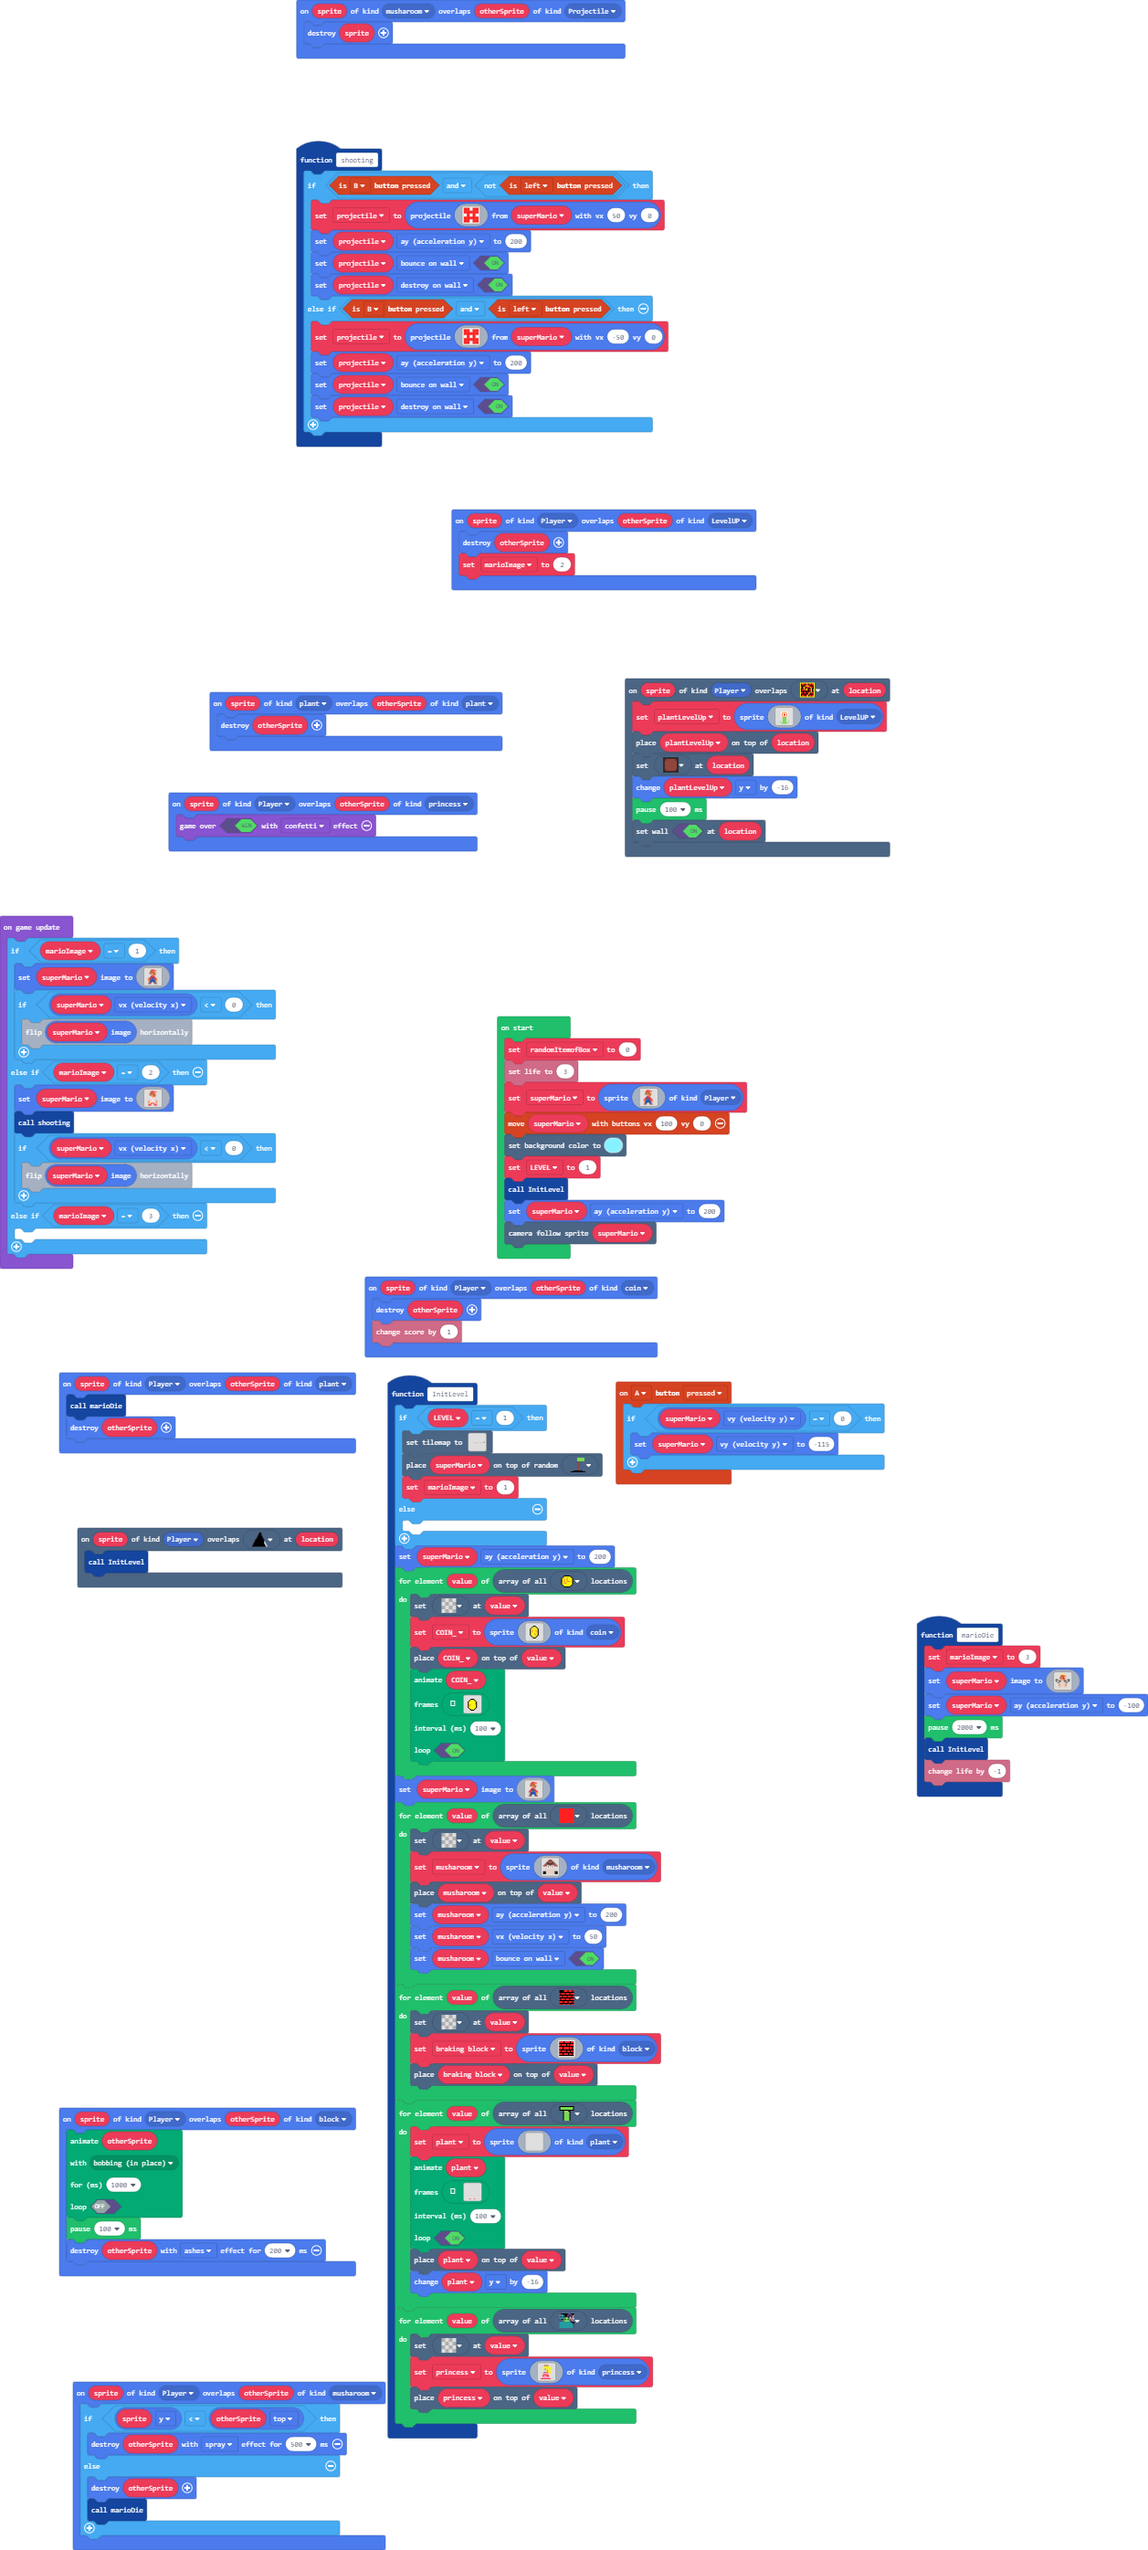
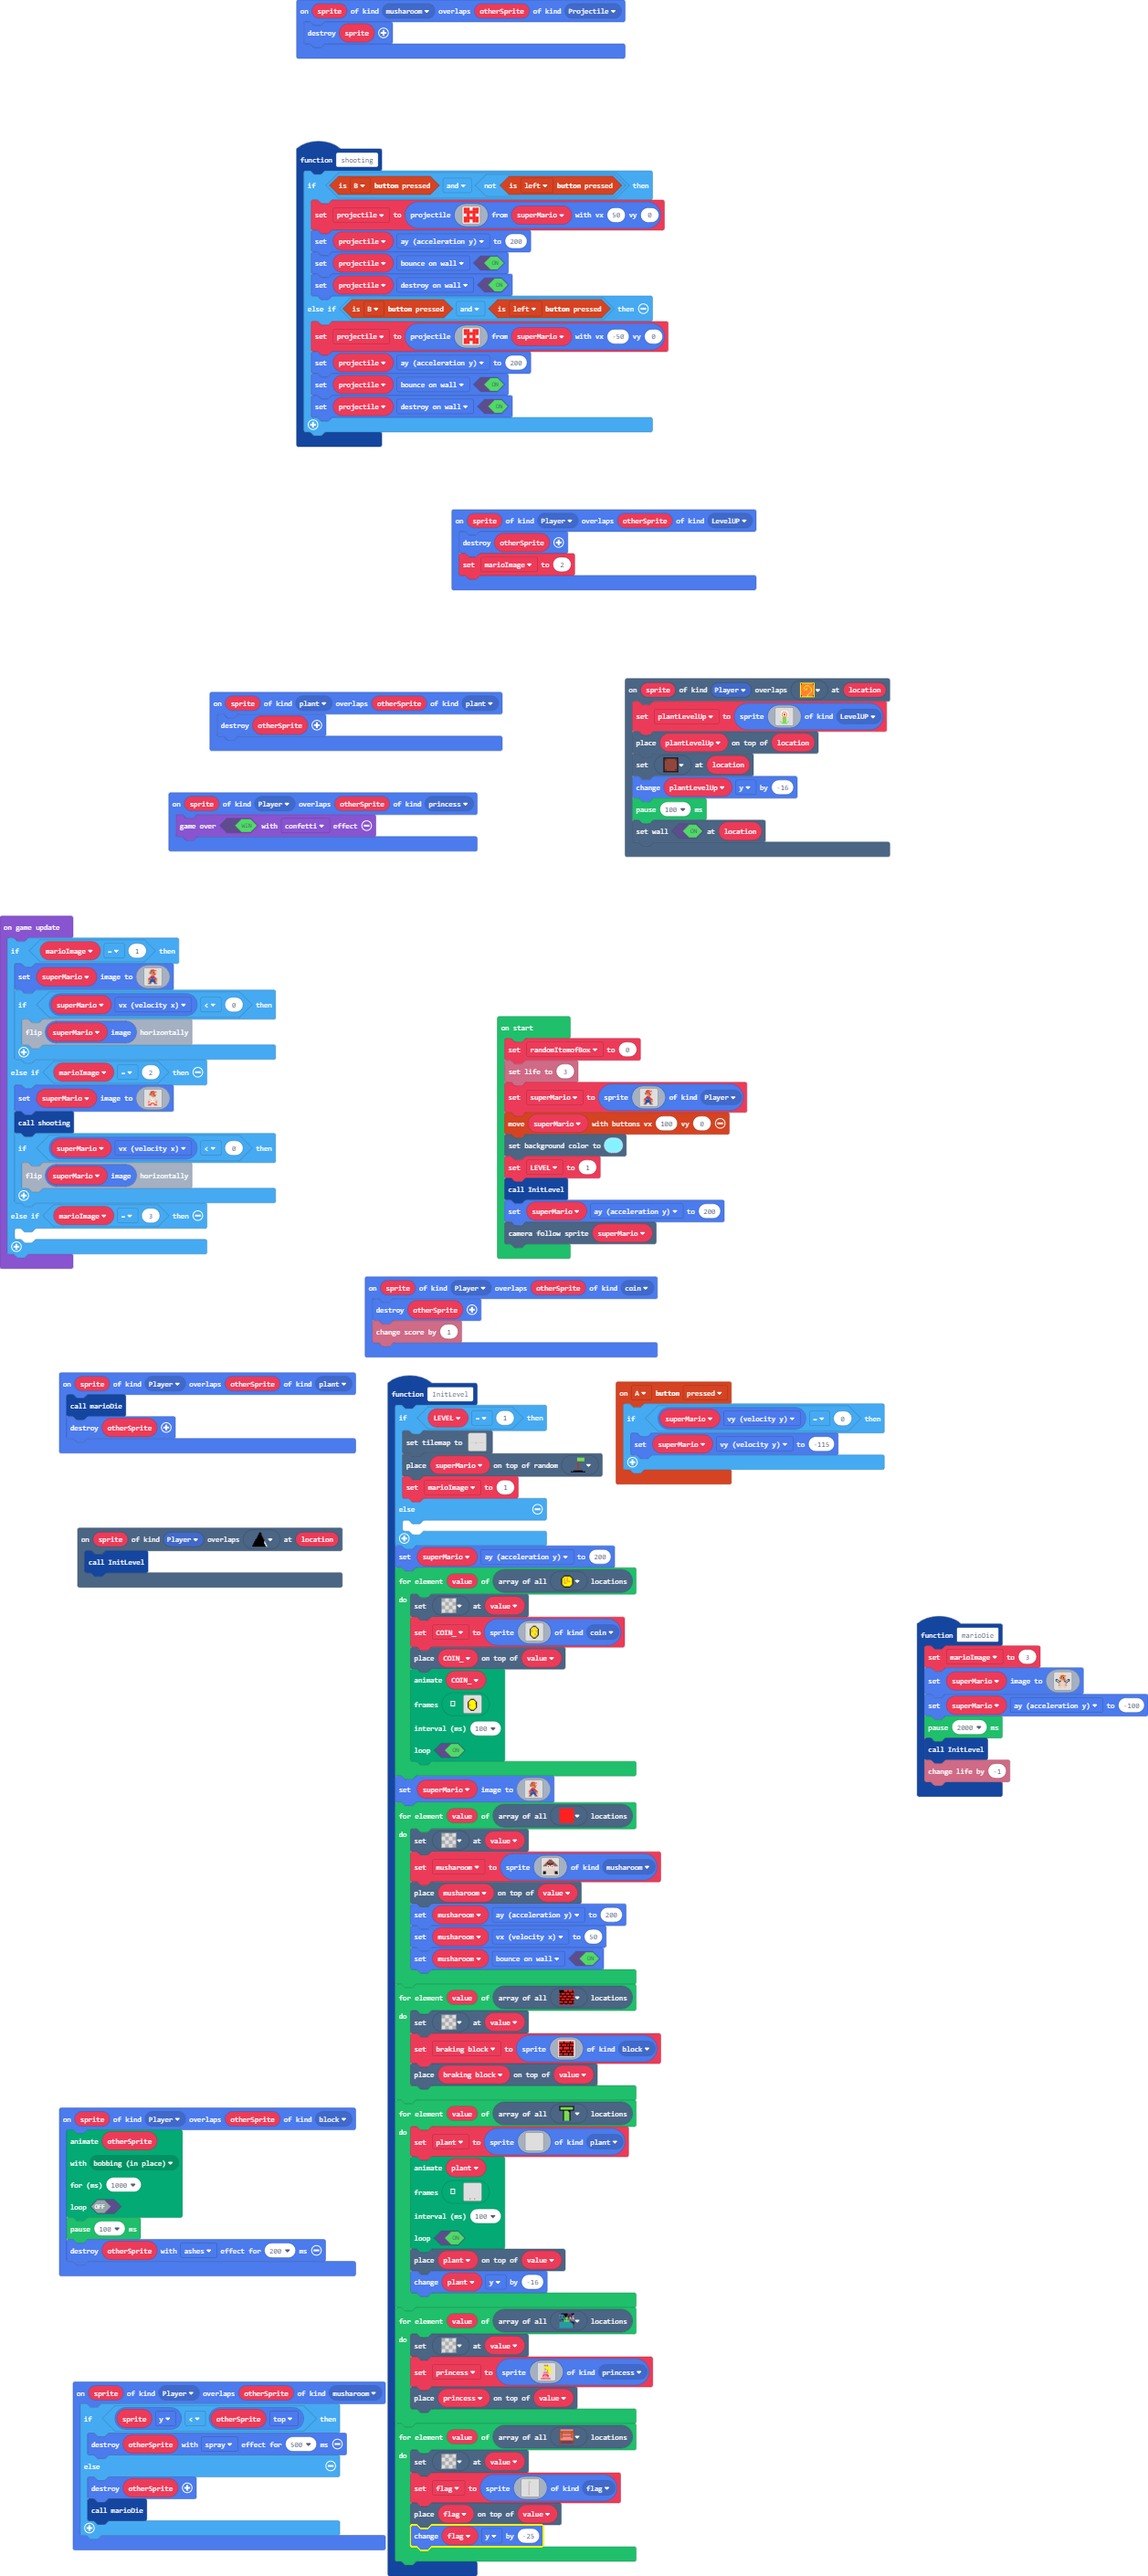
started making next level flag.

diff --git a/main.ts b/main.ts
@@ -7,6 +7,7 @@ namespace SpriteKind {
     export const star = SpriteKind.create()
     export const princess = SpriteKind.create()
     export const LevelUP = SpriteKind.create()
+    export const flag = SpriteKind.create()
 }
 namespace myTiles {
     //% blockIdentity=images._tile
@@ -298,7 +299,7 @@ scene.onOverlapTile(SpriteKind.Player, myTiles.tile7, function (sprite, location
 function InitLevel () {
     if (LEVEL == 1) {
         tiles.setTilemap(tiles.createTilemap(
[2 lines of base64/hex data omitted]
             img`
 . . . . . . . . . . . . . . . . . . . . . . . . . . . . . . . . . . . . . . . . . . . . . . . . . . . . . . . . . . . . . . . . . . . . . . . . . . . . . . . . . . . . . . . . . . . . . . . . . . . . 
 . . . . . . . . . . . . . . . . . . . . . . . . . . . . . . . . . . . . . . . . . . . . . . . . . . . . . . . . . . . . . . . . . . . . . . . . . . . . . . . . . . . . . . . . . . . . . . . . . . . . 
@@ -308,15 +309,15 @@ function InitLevel () {
 . . . . . . . . . . . . . . . . . . . . . . . . . . . . . . . . . . . . . . . . . . . . . . . . . . . . . . . . . . . . . . . . . . . . . . . . . . . . . . . . . . . . . . . . . . . . . . . . . . . . 
 . . . . . . . . . . . . . . . . . . . . . . . . . . . . . . . . . . . . . . . . . . . . . . . . . . . . . . . . . . . . . . . . . . . . . . . . . . . . . . . . . . . . . . . . . . . . . . . . . . . . 
 . . . . . . . . . . . . . . . . . . . . . . . . . . . . . . . . . . . . . . . . . . . . . . . . . . . . . . . . . . . . . . . . . . . . . . . . . . . . . . . . . . . . . . . . . . . . . . . . . . . . 
-. . . . . . . . . . . . . . . . . . . . . . . . . . . . . . . . . . . . . . . . . . . . . . . . . . . . . . . . . . . . . . . . . . . . . . . . . . . . . . . . . . . . . . . . . . . . . . . . . 2 2 2 
-. . . . . . . . . . . . . . . . . . . . . . . . . . . . . . . . . . . . . . . . . . . . . . . . . . . . . . . . . . . . . . . . . . . . . . . . . . . . . . . . . . . . . . . . . . . . . . . . 2 2 2 2 
-. . . . . . . . . . . . . . . . . . . . . . . . . . . . . . . . . . . . . . . . . . . . . . . . . . . . . . . . . . . . . . . . . . . . . . . . . . . . . . . . . . . . . . . . . . . . . . . 2 2 2 2 2 
-. . . . . . . . . . . . . . . . . . . . . . . . 2 . . . . . . . . . . . . . . . . . . . . . . . . . . . . . . . . . . . . . . . . . . . . . . . . . . . . . . . . . . . . . . . . . . . . . 2 2 2 2 2 2 
-. . . . . . . . . . . . . . . . . . . . . . . . 2 . . . . . . . . . . . . . . . . . . . . . . . . . . . . . . . . . . . . . . . . . . . . . . . . . . . . . . . . . . . . . . . . . . . . 2 2 2 2 2 2 2 
-. . . . . . . . . . . . . . . . . . . . . . . . 2 . . . . . . . . . . . . . . 2 . . 2 . . . . . . . . . . . . . . . . . . . . . . . . . . . . . . . . . . . . . . . . . . . . . . . . . 2 2 2 2 2 2 2 2 
-. . . . . . . . . . . . . . . . . . . . . . . . . . . . . . . . . . . . . . 2 2 . . 2 2 . . . . . . . . . . . . . . 2 2 2 . 2 2 . . . . . . . . . . . . . . . . . . . . . . . . . . . 2 2 2 2 2 2 2 2 2 
-. . . . . . 2 . . . . . . . . . . . . . . . . . . . . . . . . . . . . . . 2 2 2 . . 2 2 2 . . . . . . . . . . . . . . . . . . . . . . . . . . . . . 2 . . . . 2 . . . . . . . . . . 2 2 2 2 2 2 2 2 2 2 
-. . . . . . 2 2 2 . . . . 2 . . . . . 2 . . . . . . . . . . . . 2 . . . 2 2 2 2 . . 2 2 2 2 . . . 2 . . 2 . . 2 . . . . . . . . . . 2 . . 2 . . . . 2 . . . . 2 . . . . . . . 2 . 2 2 2 2 2 2 2 2 2 2 2 
+. . . . . . . . . . . . . . . . . . . . . . . . . . . . . . . . . . . . . . . . . . . . . . . . . . . . . . . . . . . . . . . . . . . . . . . . . . . . . . . . . . . . . . . . . . . . . . . . . . . . 
+. . . . . . . . . . . . . . . . . . . . . . . . . . . . . . . . . . . . . . . . . . . . . . . . . . . . . . . . . . . . . . . . . . . . . . . . . . . . . . . . . . . . . . . . . . . . . . . . . . . . 
+. . . . . . . . . . . . . . . . . . . . . . . . . . . . . . . . . . . . . . . . . . . . . . . . . . . . . . . . . . . . . . . . . . . . . . . . . . . . . . . . . . . . . . . . . . . . . . . . . . . . 
+. . . . . . . . . . . . . . . . . . . . . . . . 2 . . . . . . . . . . . . . . . . . . . . . . . . . . . . . . . . . . . . . . . . . . . . . . . . . . . . . . . . . . . . . . . . . . . . . . . . . . . 
+. . . . . . . . . . . . . . . . . . . . . . . . 2 . . . . . . . . . . . . . . . . . . . . . . . . . . . . . . . . . . . . . . . . . . . . . . . . . . . . . . . . . . . . . . . . . . . . . . . . . . . 
+. . . . . . . . . . . . . . . . . . . . . . . . 2 . . . . . . . . . . . . . . 2 . . 2 . . . . . . . . . . . . . . . . . . . . . . . . . . . . . . . . . . . . . . . . . . . . . . . . . . . . . . . . . 
+. . . . . . . . . . . . . . . . . . . . . . . . . . . . . . . . . . . . . . 2 2 . . 2 2 . . . . . . . . . . . . . . 2 2 2 . 2 2 . . . . . . . . . . . . . . . . . . . . . . . . . . . . . . . . . . . . 
+. . . . . . 2 . . . . . . . . . . . . . . . . . . . . . . . . . . . . . . 2 2 2 . . 2 2 2 . . . . . . . . . . . . . . . . . . . . . . . . . . . . . 2 . . . . 2 . . . . . . . . . . . . . . . . . . . . 
+. . . . . . 2 2 2 . . . . 2 . . . . . 2 . . . . . . . . . . . . 2 . . . 2 2 2 2 . . 2 2 2 2 . . . 2 . . 2 . . 2 . . . . . . . . . . 2 . . 2 . . . . 2 . . . . 2 . . . . . . . 2 . . . . . . . . . . . . 
 2 2 2 2 2 2 2 2 2 2 2 2 2 2 2 2 2 2 2 2 2 2 2 2 2 2 2 2 2 2 2 2 2 2 2 2 2 2 2 2 . . 2 2 2 2 2 2 2 2 2 2 2 2 2 2 2 2 2 2 2 2 2 2 2 2 2 2 2 2 2 2 2 2 2 2 2 2 2 2 2 2 2 2 2 2 2 2 2 2 2 2 2 2 2 2 2 2 2 2 
 . . . . . . . . . . . . . . . . . . . . . . . . . . . . . . . . . . . . . . . 2 . . 2 . . . . . . . . . . . . . . . . . . . . . . . . . . . . . . . . . . . . . . . . . . . . . . . . . . . . . . . . . 
 . . . . . . . . . . . . . . . . . . . . . . . . . . . . . . . . . . . . . . . 2 . . 2 . . . . . . . . . . . . . . . . . . . . . . . . . . . . . . . . . . . . . . . . . . . . . . . . . . . . . . . . . 
@@ -324,7 +325,7 @@ function InitLevel () {
 . . . . . . . . . . . . . . . . . . . . . . . . . . . . . . . . . . . . . . . 2 . . 2 . . . . . . . . . . . . . . . . . . . . . . . . . . . . . . . . . . . . . . . . . . . . . . . . . . . . . . . . . 
 . . . . . . . . . . . . . . . . . . . . . . . . . . . . . . . . . . . . . . . 2 . . 2 . . . . . . . . . . . . . . . . . . . . . . . . . . . . . . . . . . . . . . . . . . . . . . . . . . . . . . . . . 
 `,
-            [myTiles.tile0,sprites.castle.tilePath2,myTiles.tile1,myTiles.tile2,myTiles.tile3,myTiles.tile4,myTiles.tile5,myTiles.tile6,myTiles.tile7,sprites.builtin.crowd7,myTiles.tile8,myTiles.tile9],
+            [myTiles.tile0,sprites.castle.tilePath2,myTiles.tile1,myTiles.tile2,myTiles.tile3,myTiles.tile4,myTiles.tile5,myTiles.tile6,myTiles.tile7,sprites.builtin.crowd7,myTiles.tile8,myTiles.tile9,sprites.castle.tilePath5,sprites.dungeon.stairEast,sprites.dungeon.stairWest,sprites.dungeon.stairSouth,sprites.dungeon.purpleOuterNorthWest,sprites.dungeon.purpleOuterNorthEast,sprites.dungeon.floorLight4,sprites.dungeon.floorDark3,sprites.dungeon.floorLight0,sprites.dungeon.doorOpenSouth,sprites.dungeon.floorDark2,sprites.dungeon.floorLight5,sprites.dungeon.floorLight2,sprites.dungeon.purpleOuterEast1,sprites.dungeon.purpleOuterSouth2,sprites.dungeon.stairLadder],
             TileScale.Sixteen
         ))
         tiles.placeOnRandomTile(superMario, myTiles.tile2)
@@ -1414,6 +1415,83 @@ f f f f f f f f f f f f f f f f
 `, SpriteKind.princess)
         tiles.placeOnTile(princess, value)
     }
+    for (let value of tiles.getTilesByType(sprites.dungeon.stairLadder)) {
+        tiles.setTileAt(value, myTiles.tile0)
+        flag = sprites.create(img`
+7 7 . . . . . . . . . . . . . 
+7 7 7 7 . . . . . . . . . . . 
+7 7 7 7 7 . . . . . . . . . . 
+7 7 7 7 7 7 7 . . . . . . . . 
+7 7 7 7 7 7 7 7 7 . . . . . . 
+7 7 7 7 7 7 7 7 7 7 7 . . . . 
+7 7 7 7 7 7 7 7 7 7 7 7 7 . . 
+7 7 7 7 7 7 7 7 7 7 7 7 7 7 7 
+7 7 7 7 7 7 7 7 7 7 7 7 7 7 7 
+e e e . . . . . . . . . . . . 
+e e e . . . . . . . . . . . . 
+e e e . . . . . . . . . . . . 
+e e e . . . . . . . . . . . . 
+e e e . . . . . . . . . . . . 
+e e e . . . . . . . . . . . . 
+e e e . . . . . . . . . . . . 
+e e e . . . . . . . . . . . . 
+e e e . . . . . . . . . . . . 
+e e e . . . . . . . . . . . . 
+e e e . . . . . . . . . . . . 
+e e e . . . . . . . . . . . . 
+e e e . . . . . . . . . . . . 
+e e e . . . . . . . . . . . . 
+e e e . . . . . . . . . . . . 
+e e e . . . . . . . . . . . . 
+e e e . . . . . . . . . . . . 
+e e e . . . . . . . . . . . . 
+e e e . . . . . . . . . . . . 
+e e e . . . . . . . . . . . . 
+e e e . . . . . . . . . . . . 
+e e e . . . . . . . . . . . . 
+e e e . . . . . . . . . . . . 
+e e e . . . . . . . . . . . . 
+e e e . . . . . . . . . . . . 
+e e e . . . . . . . . . . . . 
+e e e . . . . . . . . . . . . 
+e e e . . . . . . . . . . . . 
+e e e . . . . . . . . . . . . 
+e e e . . . . . . . . . . . . 
+e e e . . . . . . . . . . . . 
+e e e . . . . . . . . . . . . 
+e e e . . . . . . . . . . . . 
+e e e . . . . . . . . . . . . 
+e e e . . . . . . . . . . . . 
+e e e . . . . . . . . . . . . 
+e e e . . . . . . . . . . . . 
+e e e . . . . . . . . . . . . 
+e e e . . . . . . . . . . . . 
+e e e . . . . . . . . . . . . 
+e e e . . . . . . . . . . . . 
+e e e . . . . . . . . . . . . 
+e e e . . . . . . . . . . . . 
+e e e . . . . . . . . . . . . 
+e e e . . . . . . . . . . . . 
+e e e . . . . . . . . . . . . 
+e e e . . . . . . . . . . . . 
+e e e . . . . . . . . . . . . 
+e e e . . . . . . . . . . . . 
+e e e . . . . . . . . . . . . 
+e e e . . . . . . . . . . . . 
+e e e . . . . . . . . . . . . 
+e e e . . . . . . . . . . . . 
+e e e . . . . . . . . . . . . 
+e e e . . . . . . . . . . . . 
+e e e . . . . . . . . . . . . 
+e e e . . . . . . . . . . . . 
+e e e . . . . . . . . . . . . 
+e e e . . . . . . . . . . . . 
+e e e . . . . . . . . . . . . 
+e e e . . . . . . . . . . . . 
+`, SpriteKind.flag)
+        tiles.placeOnTile(flag, value)
+        flag.y += -25
+    }
 }
 sprites.onOverlap(SpriteKind.Player, SpriteKind.princess, function (sprite, otherSprite) {
     game.over(true, effects.confetti)
@@ -1448,6 +1526,7 @@ function shooting () {
     }
 }
 let projectile: Sprite = null
+let flag: Sprite = null
 let princess: Sprite = null
 let plant: Sprite = null
 let braking_block: Sprite = null
